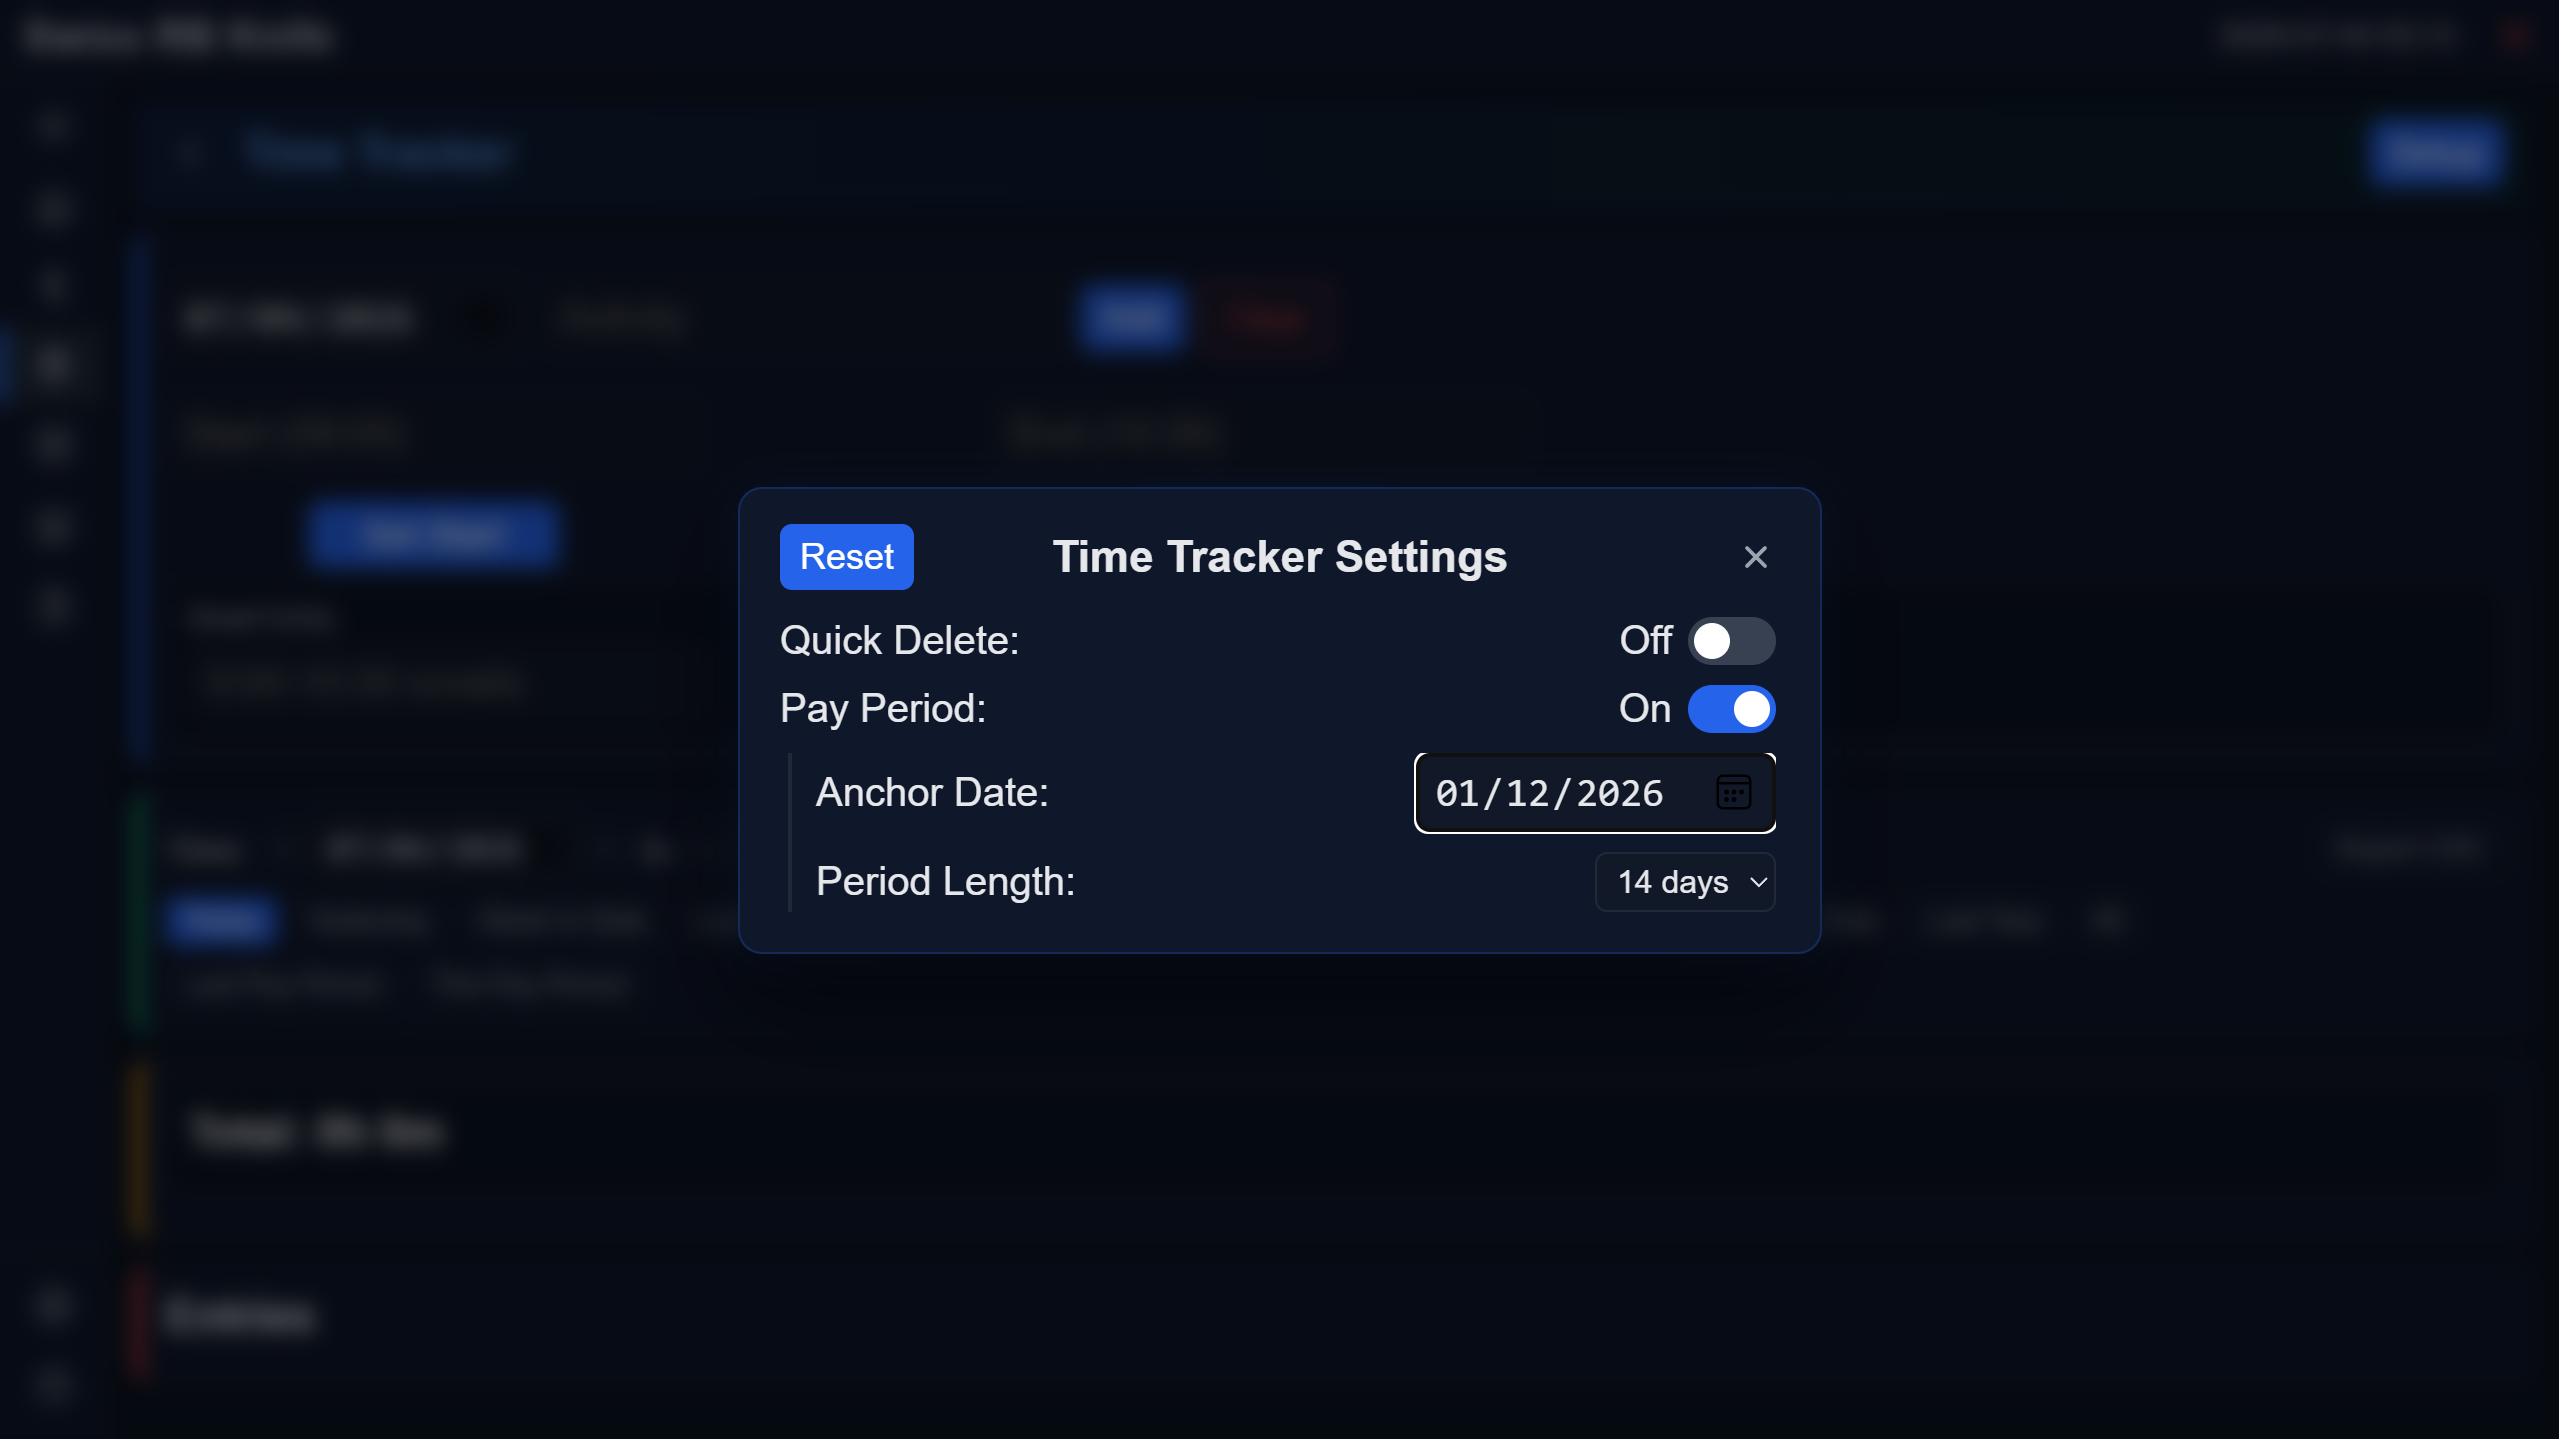
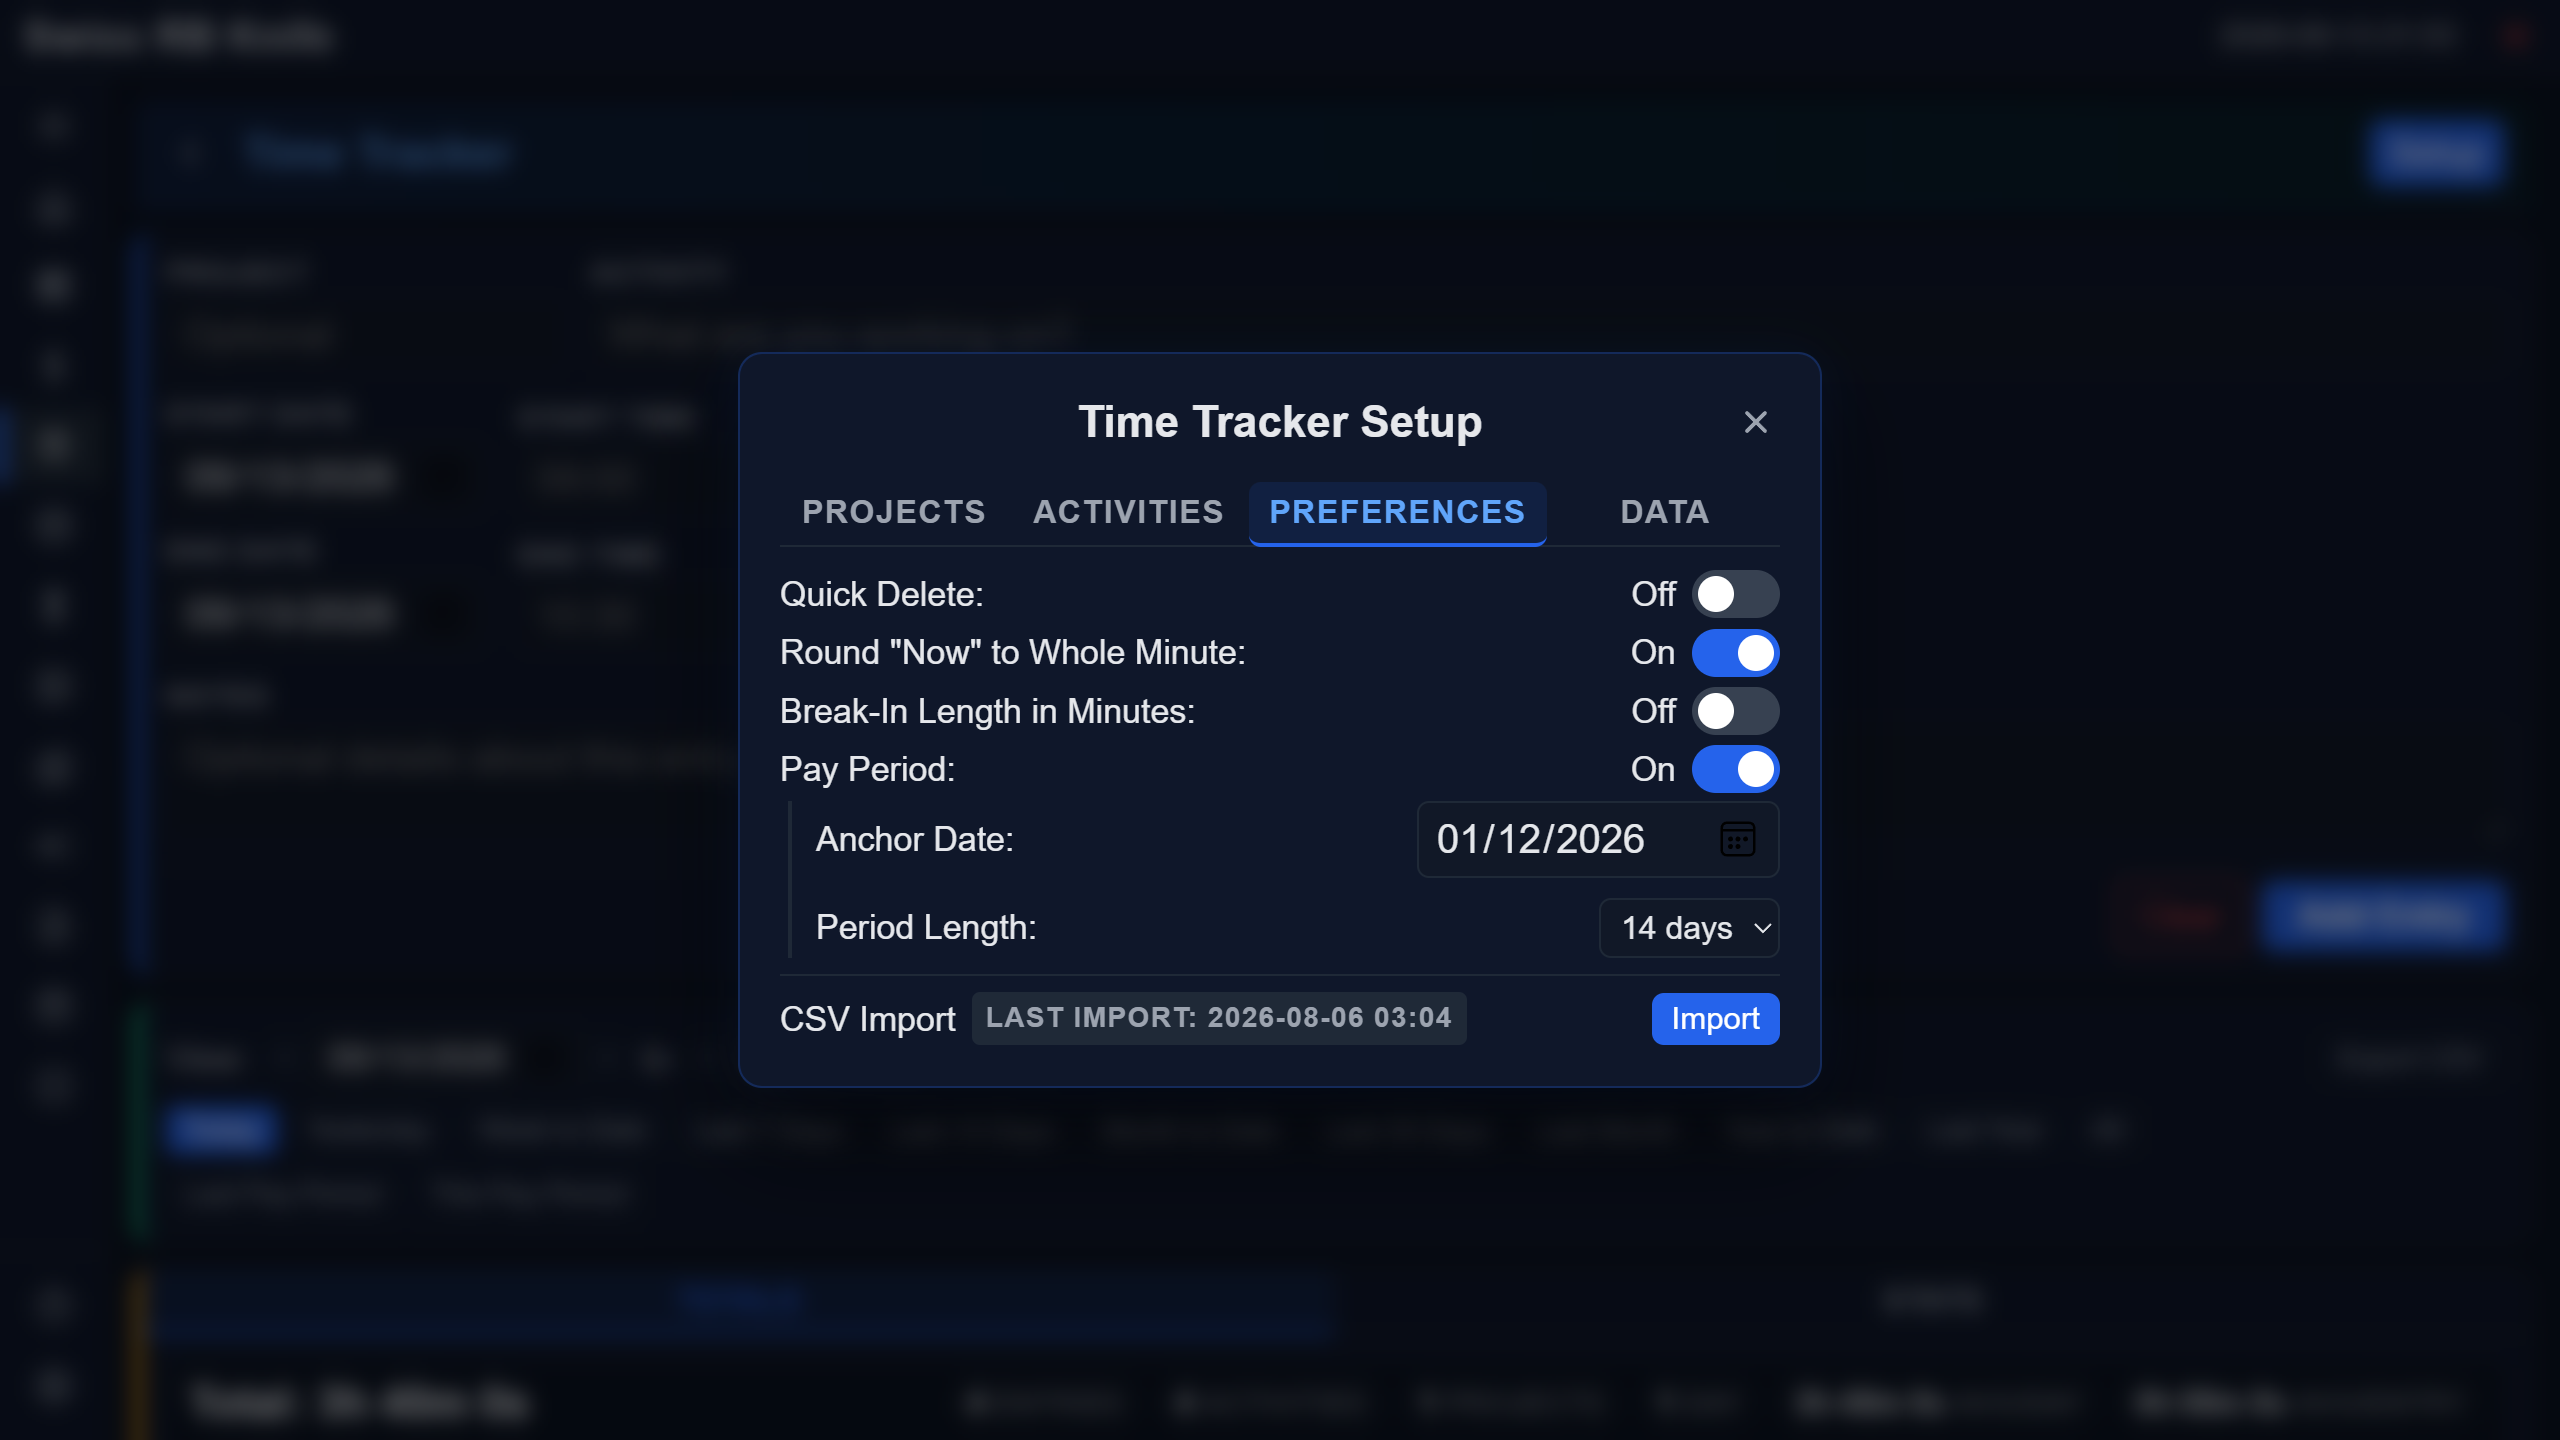
Show every App Settings tab, and retake Budget and Time Tracker screenshots
Claude-Session: https://claude.ai/code/session_0173BUEaRKtQZ3qvA4whRbU1

diff --git a/README.md b/README.md
@@ -27,8 +27,17 @@ Swiss RB Knife is highly customizable, so you can make the software feel comfy. 
 Right-click pretty much anything to see what you can do to it. Hit F11 to cycle View Modes when you want more screen and less chrome. Give buttons and modals their own little sound cues if you're into that. And when you want a backup you can actually hold, App Settings > Data exports your entire data folder as one plain .zip you can open in Explorer, and puts one back when you need it (the app restarts to swap it in, and keeps your old folder right beside it, just in case).
 
 <p align="center">
-  <a href="./screenshots/general/general-settings.png" target="_blank">
-    <img class="md-img" src="./screenshots/general/general-settings.png" width="100%" alt="App Settings Modal" />
+  <a href="./screenshots/general/general-settings-display.png" target="_blank">
+    <img class="md-img" src="./screenshots/general/general-settings-display.png" width="49%" alt="App Settings: Display" />
+  </a>
+  <a href="./screenshots/general/general-settings-audio.png" target="_blank">
+    <img class="md-img" src="./screenshots/general/general-settings-audio.png" width="49%" alt="App Settings: Audio" />
+  </a>
+  <a href="./screenshots/general/general-settings-preferences.png" target="_blank">
+    <img class="md-img" src="./screenshots/general/general-settings-preferences.png" width="49%" alt="App Settings: Preferences" />
+  </a>
+  <a href="./screenshots/general/general-settings-data.png" target="_blank">
+    <img class="md-img" src="./screenshots/general/general-settings-data.png" width="49%" alt="App Settings: Data" />
   </a>
 </p>
 
@@ -113,7 +122,7 @@ Input Income earned and Expenses incurred. Yeah, your bank statement may tell yo
     <img class="md-img" src="./screenshots/budget-tracker/budget-setup-edit-expense-category.png" width="24%" alt="Budget Tracker: Setup Modal - Edit Expense Category" />
   </a>
   <a href="./screenshots/budget-tracker/budget-setup-settings.png" target="_blank">
-    <img class="md-img" src="./screenshots/budget-tracker/budget-setup-settings.png" width="24%" alt="Budget Tracker: Setup Modal - Settings" />
+    <img class="md-img" src="./screenshots/budget-tracker/budget-setup-settings.png" width="24%" alt="Budget Tracker: Setup Modal - Preferences" />
   </a>
   <a href="./screenshots/budget-tracker/budget-annual-stats-1.png" target="_blank">
     <img class="md-img" src="./screenshots/budget-tracker/budget-annual-stats-1.png" width="24%" alt="Budget Tracker: Annual Stats, Part 1" />
@@ -137,13 +146,13 @@ Log and track time entries with pay period summaries, running totals, and CSV ex
     <img class="md-img" src="./screenshots/time-tracker/time-tracker-base.png" width="49%" alt="Time Tracker: Main View" />
   </a>
   <a href="./screenshots/time-tracker/time-tracker-settings.png" target="_blank">
-    <img class="md-img" src="./screenshots/time-tracker/time-tracker-settings.png" width="49%" alt="Time Tracker: Settings Modal" />
+    <img class="md-img" src="./screenshots/time-tracker/time-tracker-settings.png" width="49%" alt="Time Tracker: Setup Modal - Preferences" />
   </a>
   <a href="./screenshots/time-tracker/time-tracker-data-entry-1.png" target="_blank">
-    <img class="md-img" src="./screenshots/time-tracker/time-tracker-data-entry-1.png" width="49%" alt="Time Tracker: Data Entry, Part 1" />
+    <img class="md-img" src="./screenshots/time-tracker/time-tracker-data-entry-1.png" width="49%" alt="Time Tracker: Data Entry" />
   </a>
   <a href="./screenshots/time-tracker/time-tracker-data-entry-2.png" target="_blank">
-    <img class="md-img" src="./screenshots/time-tracker/time-tracker-data-entry-2.png" width="49%" alt="Time Tracker: Data Entry, Part 2" />
+    <img class="md-img" src="./screenshots/time-tracker/time-tracker-data-entry-2.png" width="49%" alt="Time Tracker: Setup Modal - Activities" />
   </a>
   <a href="./screenshots/time-tracker/time-tracker-view-entries-1.png" target="_blank">
     <img class="md-img" src="./screenshots/time-tracker/time-tracker-view-entries-1.png" width="49%" alt="Time Tracker: View Entries, Part 1" />
@@ -152,7 +161,7 @@ Log and track time entries with pay period summaries, running totals, and CSV ex
     <img class="md-img" src="./screenshots/time-tracker/time-tracker-view-entries-2.png" width="49%" alt="Time Tracker: View Entries, Part 2" />
   </a>
   <a href="./screenshots/time-tracker/time-tracker-summary-panel.png" target="_blank">
-    <img class="md-img" src="./screenshots/time-tracker/time-tracker-summary-panel.png" width="49%" alt="Time Tracker: Summary Panel by View" />
+    <img class="md-img" src="./screenshots/time-tracker/time-tracker-summary-panel.png" width="49%" alt="Time Tracker: Stats Panel" />
   </a>
 </p>
 
